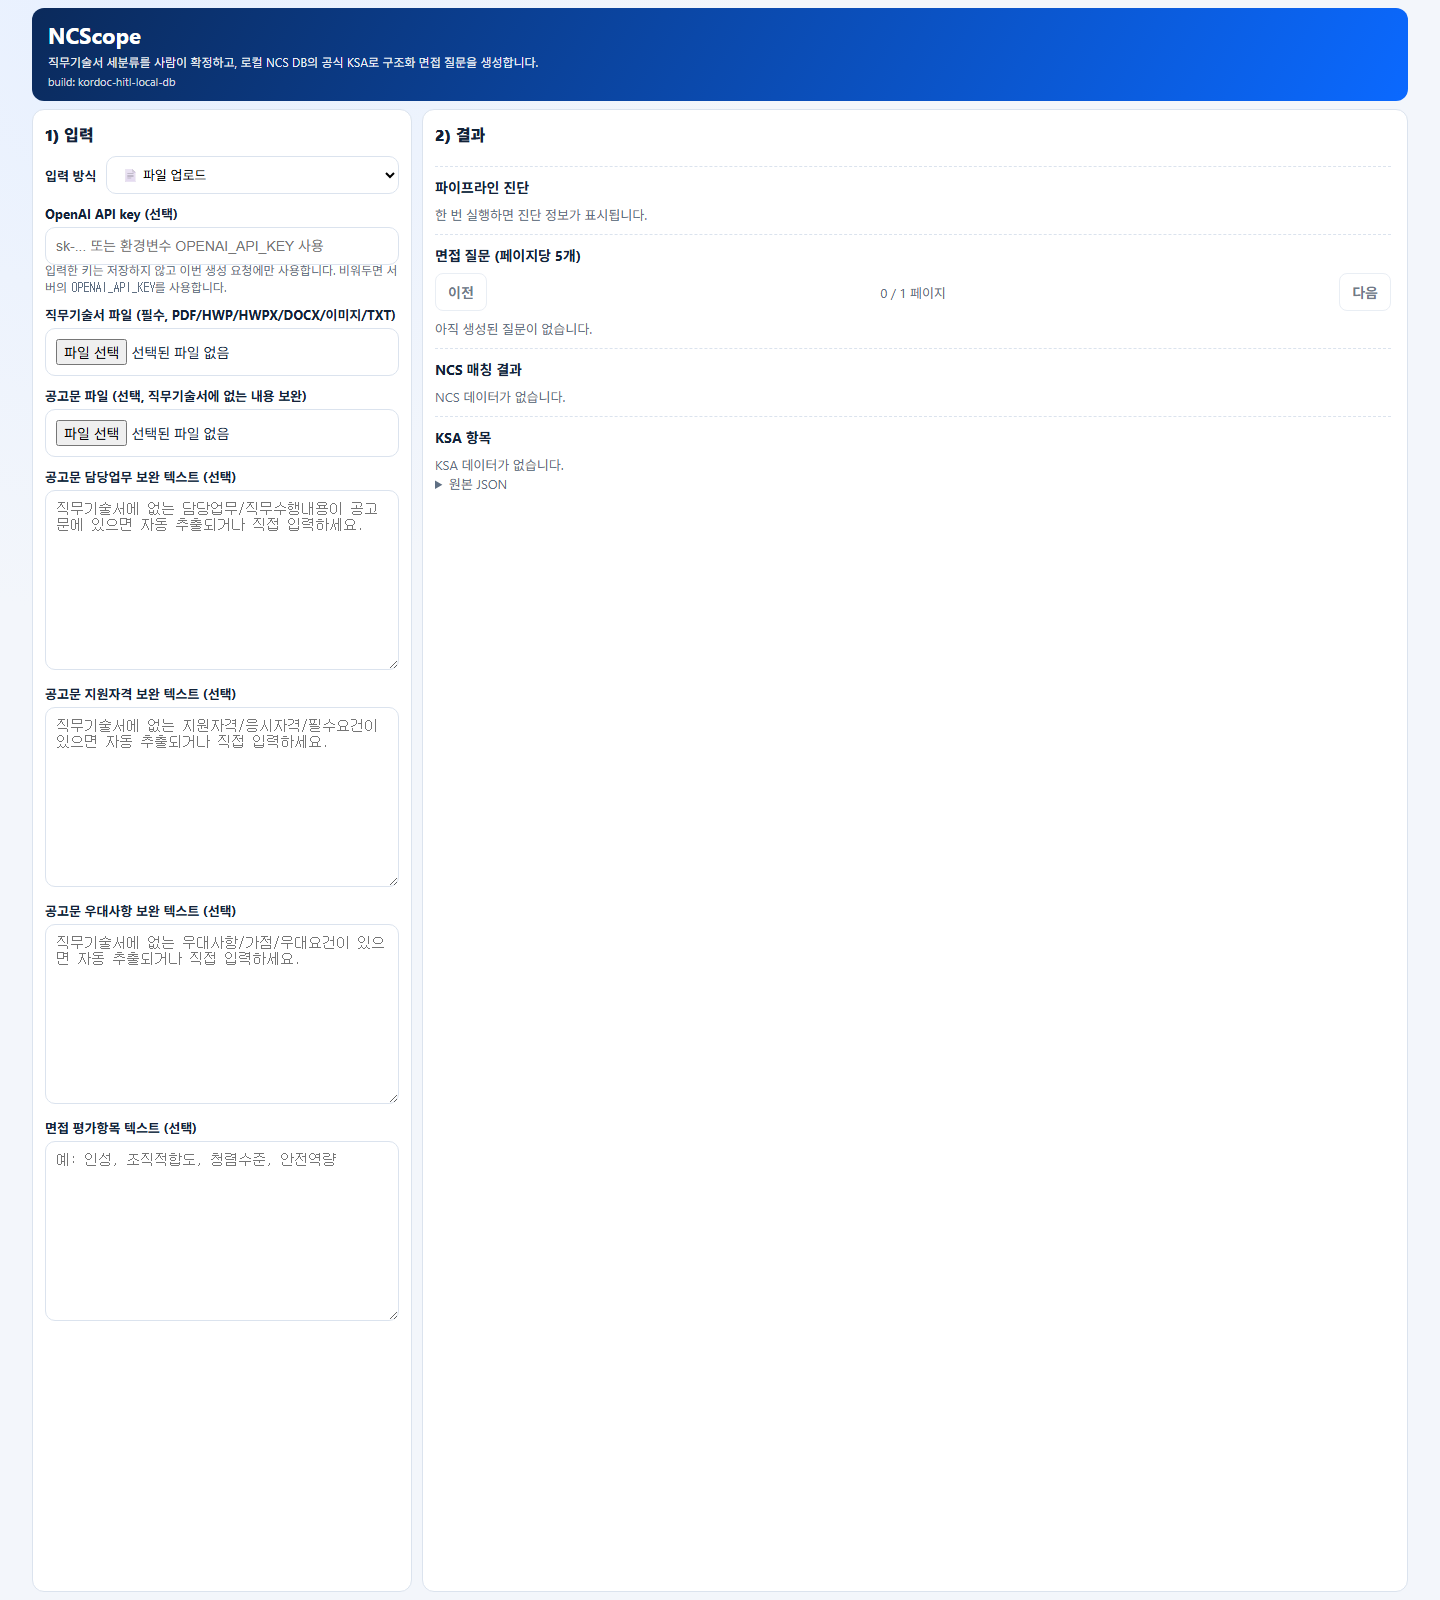
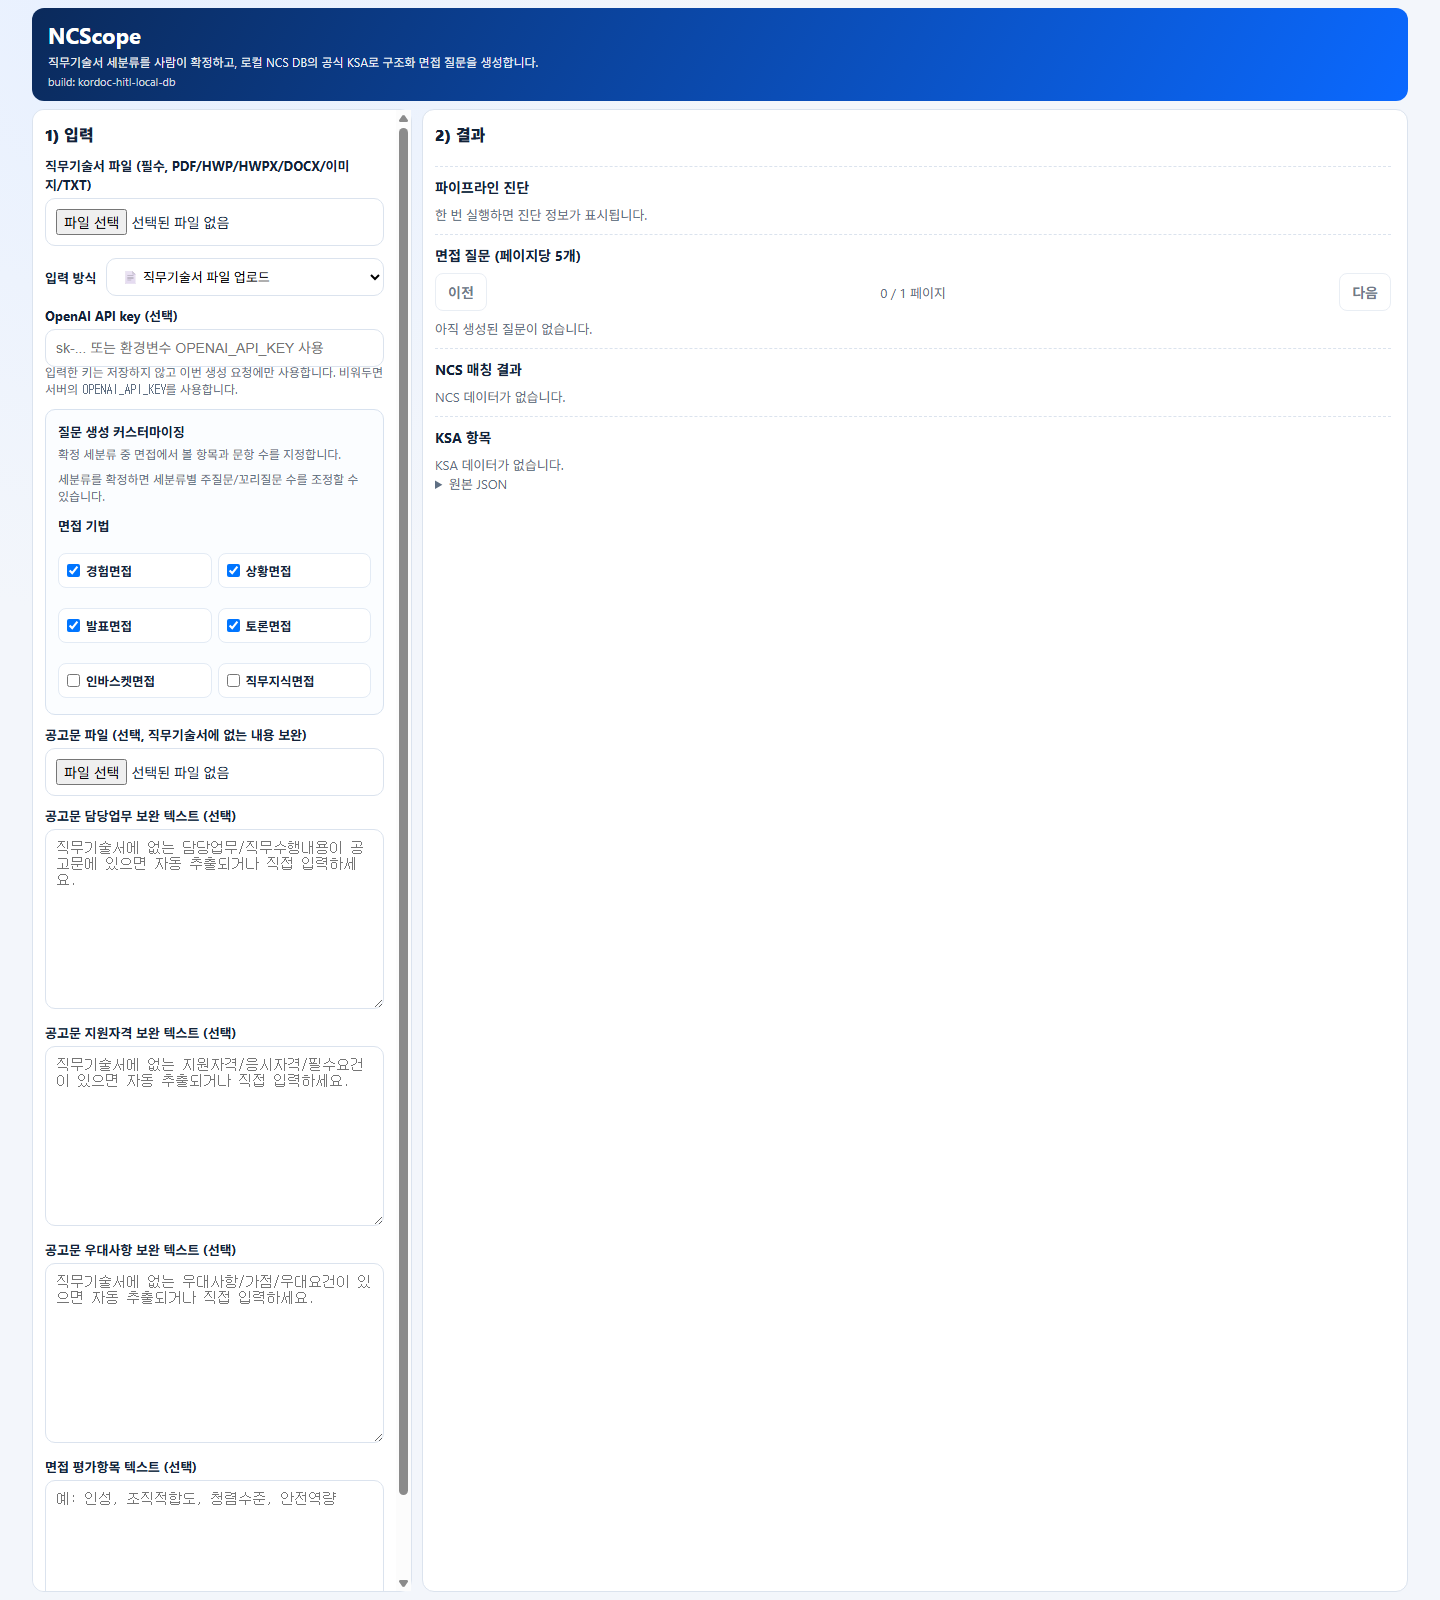
NCScope fixes input order and interview method visibility

diff --git a/app/static/index.html b/app/static/index.html
@@ -119,20 +119,6 @@
       <section class="card">
         <h2 class="title">1) 입력</h2>
 
-        <div style="display:flex; align-items:center; gap:10px; margin-bottom:4px;">
-          <label for="inputMode" style="margin:0; white-space:nowrap; font-size:13px; font-weight:700;">입력 방식</label>
-          <select id="inputMode" class="dropdown" style="flex:1;">
-            <option value="upload" selected>📄 파일 업로드</option>
-            <option value="manual">✏️ 공고문 직접입력</option>
-          </select>
-        </div>
-
-        <label for="openaiApiKey">OpenAI API key (선택)</label>
-        <input id="openaiApiKey" type="password" placeholder="sk-... 또는 환경변수 OPENAI_API_KEY 사용" autocomplete="off" spellcheck="false" />
-        <div class="sub" style="margin-top:-4px; margin-bottom:10px;">
-          입력한 키는 저장하지 않고 이번 생성 요청에만 사용합니다. 비워두면 서버의 <code>OPENAI_API_KEY</code>를 사용합니다.
-        </div>
-
         <div id="uploadBlock">
           <label for="jdFile">직무기술서 파일 (필수, PDF/HWP/HWPX/DOCX/이미지/TXT)</label>
           <input id="jdFile" type="file" accept=".pdf,.hwp,.hwpx,.docx,.png,.jpg,.jpeg,.webp,.txt" />
@@ -152,6 +138,43 @@
             <label for="reviewNcsDetail">확정할 세분류</label>
             <textarea id="reviewNcsDetail" rows="2" placeholder="예: 경영기획"></textarea>
             <button type="button" id="btnConfirmReview" style="background:#0f766e; margin-top:8px;">추출 결과 검토·확정</button>
+          </div>
+        </div>
+
+        <div style="display:flex; align-items:center; gap:10px; margin:12px 0 4px;">
+          <label for="inputMode" style="margin:0; white-space:nowrap; font-size:13px; font-weight:700;">입력 방식</label>
+          <select id="inputMode" class="dropdown" style="flex:1;">
+            <option value="upload" selected>📄 직무기술서 파일 업로드</option>
+            <option value="manual">✏️ 공고문 직접입력</option>
+          </select>
+        </div>
+
+        <label for="openaiApiKey">OpenAI API key (선택)</label>
+        <input id="openaiApiKey" type="password" placeholder="sk-... 또는 환경변수 OPENAI_API_KEY 사용" autocomplete="off" spellcheck="false" />
+        <div class="sub" style="margin-top:-4px; margin-bottom:10px;">
+          입력한 키는 저장하지 않고 이번 생성 요청에만 사용합니다. 비워두면 서버의 <code>OPENAI_API_KEY</code>를 사용합니다.
+        </div>
+
+        <div id="uploadSupplementBlock">
+
+          <div id="questionOptionBlock" class="option-card">
+            <label style="margin-top:0;">질문 생성 커스터마이징</label>
+            <p class="sub" style="margin:4px 0 8px;">확정 세분류 중 면접에서 볼 항목과 문항 수를 지정합니다.</p>
+            <div id="questionPlanEmpty" class="sub" style="margin:8px 0;">세분류를 확정하면 세분류별 주질문/꼬리질문 수를 조정할 수 있습니다.</div>
+            <div id="questionPlanHead" class="plan-head" style="display:none;">
+              <span></span><span>세분류</span><span>주질문</span><span>꼬리</span>
+            </div>
+            <div id="questionPlanRows"></div>
+
+            <label style="margin-top:12px;">면접 기법</label>
+            <div class="method-grid">
+              <label class="method-item"><input type="checkbox" name="interviewMethod" value="경험면접" checked /> 경험면접</label>
+              <label class="method-item"><input type="checkbox" name="interviewMethod" value="상황면접" checked /> 상황면접</label>
+              <label class="method-item"><input type="checkbox" name="interviewMethod" value="발표면접" checked /> 발표면접</label>
+              <label class="method-item"><input type="checkbox" name="interviewMethod" value="토론면접" checked /> 토론면접</label>
+              <label class="method-item"><input type="checkbox" name="interviewMethod" value="인바스켓면접" /> 인바스켓면접</label>
+              <label class="method-item"><input type="checkbox" name="interviewMethod" value="직무지식면접" /> 직무지식면접</label>
+            </div>
           </div>
 
           <!-- Legacy small-category fallback helper. Hidden in the MCP-only flow. -->
@@ -196,24 +219,6 @@
           <label for="evalText">면접 평가항목 텍스트 (선택)</label>
           <textarea id="evalText" placeholder="예: 인성, 조직적합도, 청렴수준, 안전역량"></textarea>
 
-          <div id="questionOptionBlock" class="option-card" style="display:none;">
-            <label style="margin-top:0;">질문 생성 커스터마이징</label>
-            <p class="sub" style="margin:4px 0 8px;">확정 세분류 중 면접에서 볼 항목과 문항 수를 지정합니다.</p>
-            <div class="plan-head">
-              <span></span><span>세분류</span><span>주질문</span><span>꼬리</span>
-            </div>
-            <div id="questionPlanRows"></div>
-
-            <label style="margin-top:12px;">면접 기법</label>
-            <div class="method-grid">
-              <label class="method-item"><input type="checkbox" name="interviewMethod" value="경험면접" checked /> 경험면접</label>
-              <label class="method-item"><input type="checkbox" name="interviewMethod" value="상황면접" checked /> 상황면접</label>
-              <label class="method-item"><input type="checkbox" name="interviewMethod" value="발표면접" checked /> 발표면접</label>
-              <label class="method-item"><input type="checkbox" name="interviewMethod" value="토론면접" checked /> 토론면접</label>
-              <label class="method-item"><input type="checkbox" name="interviewMethod" value="인바스켓면접" /> 인바스켓면접</label>
-              <label class="method-item"><input type="checkbox" name="interviewMethod" value="직무지식면접" /> 직무지식면접</label>
-            </div>
-          </div>
         </div>
 
         <div id="manualBlock" class="hidden">
@@ -318,6 +323,7 @@
     const qIndicator = document.getElementById('qIndicator');
     const inputMode = document.getElementById('inputMode');
     const uploadBlock = document.getElementById('uploadBlock');
+    const uploadSupplementBlock = document.getElementById('uploadSupplementBlock');
     const manualBlock = document.getElementById('manualBlock');
     const openaiApiKey = document.getElementById('openaiApiKey');
     const jdFile = document.getElementById('jdFile');
@@ -338,6 +344,8 @@
     const noticeReviewStatus = document.getElementById('noticeReviewStatus');
     const btnConfirmNotice = document.getElementById('btnConfirmNotice');
     const questionOptionBlock = document.getElementById('questionOptionBlock');
+    const questionPlanEmpty = document.getElementById('questionPlanEmpty');
+    const questionPlanHead = document.getElementById('questionPlanHead');
     const questionPlanRows = document.getElementById('questionPlanRows');
 
     let ncsUnitOptions = [];
@@ -385,10 +393,14 @@
       const details = currentReviewedDetails();
       questionPlanRows.innerHTML = '';
       if (!details.length) {
-        questionOptionBlock.style.display = 'none';
+        questionOptionBlock.style.display = 'block';
+        questionPlanEmpty.style.display = 'block';
+        questionPlanHead.style.display = 'none';
         return;
       }
       questionOptionBlock.style.display = 'block';
+      questionPlanEmpty.style.display = 'none';
+      questionPlanHead.style.display = 'grid';
       details.forEach((detail, idx) => {
         const row = document.createElement('div');
         row.className = 'detail-plan-row';
@@ -881,6 +893,7 @@
     function setInputMode(mode) {
       const isUpload = mode !== 'manual';
       uploadBlock.classList.toggle('hidden', !isUpload);
+      uploadSupplementBlock.classList.toggle('hidden', !isUpload);
       manualBlock.classList.toggle('hidden', isUpload);
       btn.style.display = isUpload ? (reviewConfirmed ? 'block' : 'none') : 'block';
       btn.textContent = isUpload ? '로컬 NCS DB KSA 기반 면접 질문 생성' : '면접 질문 생성';